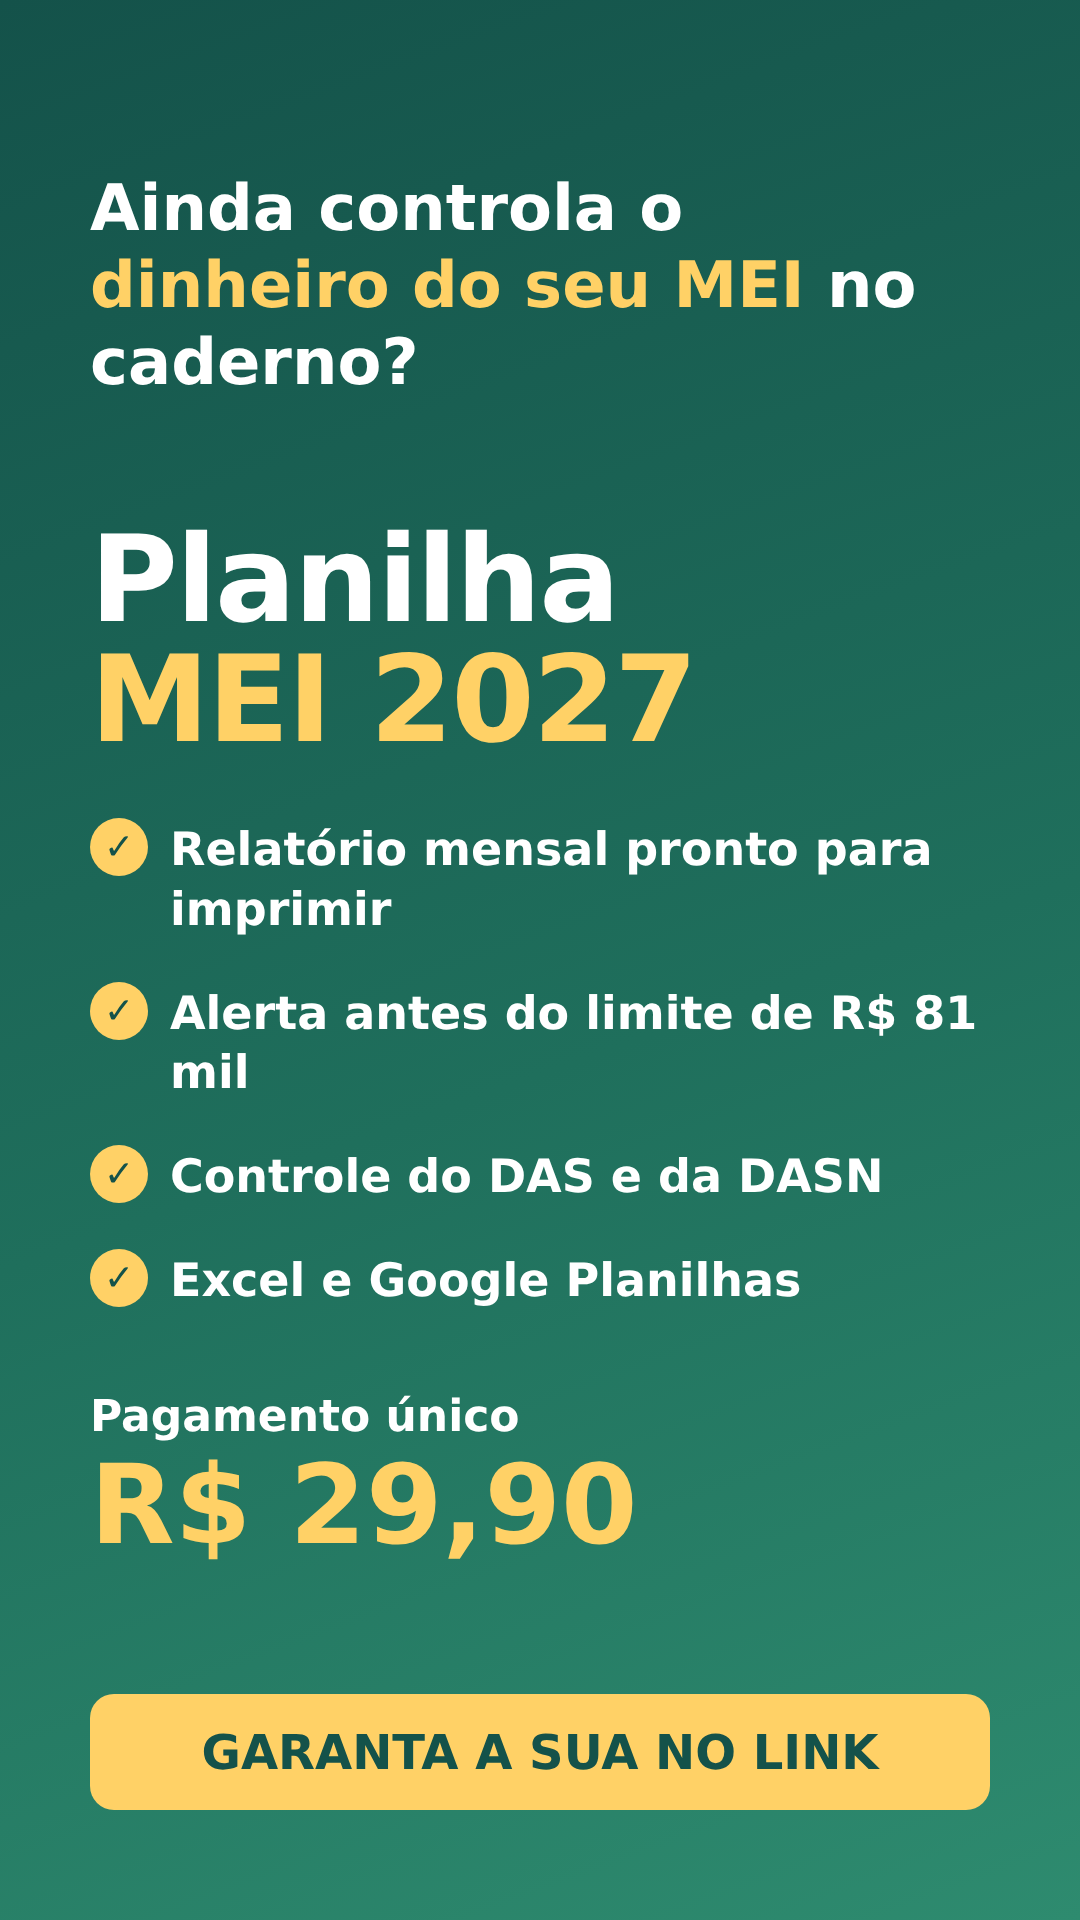
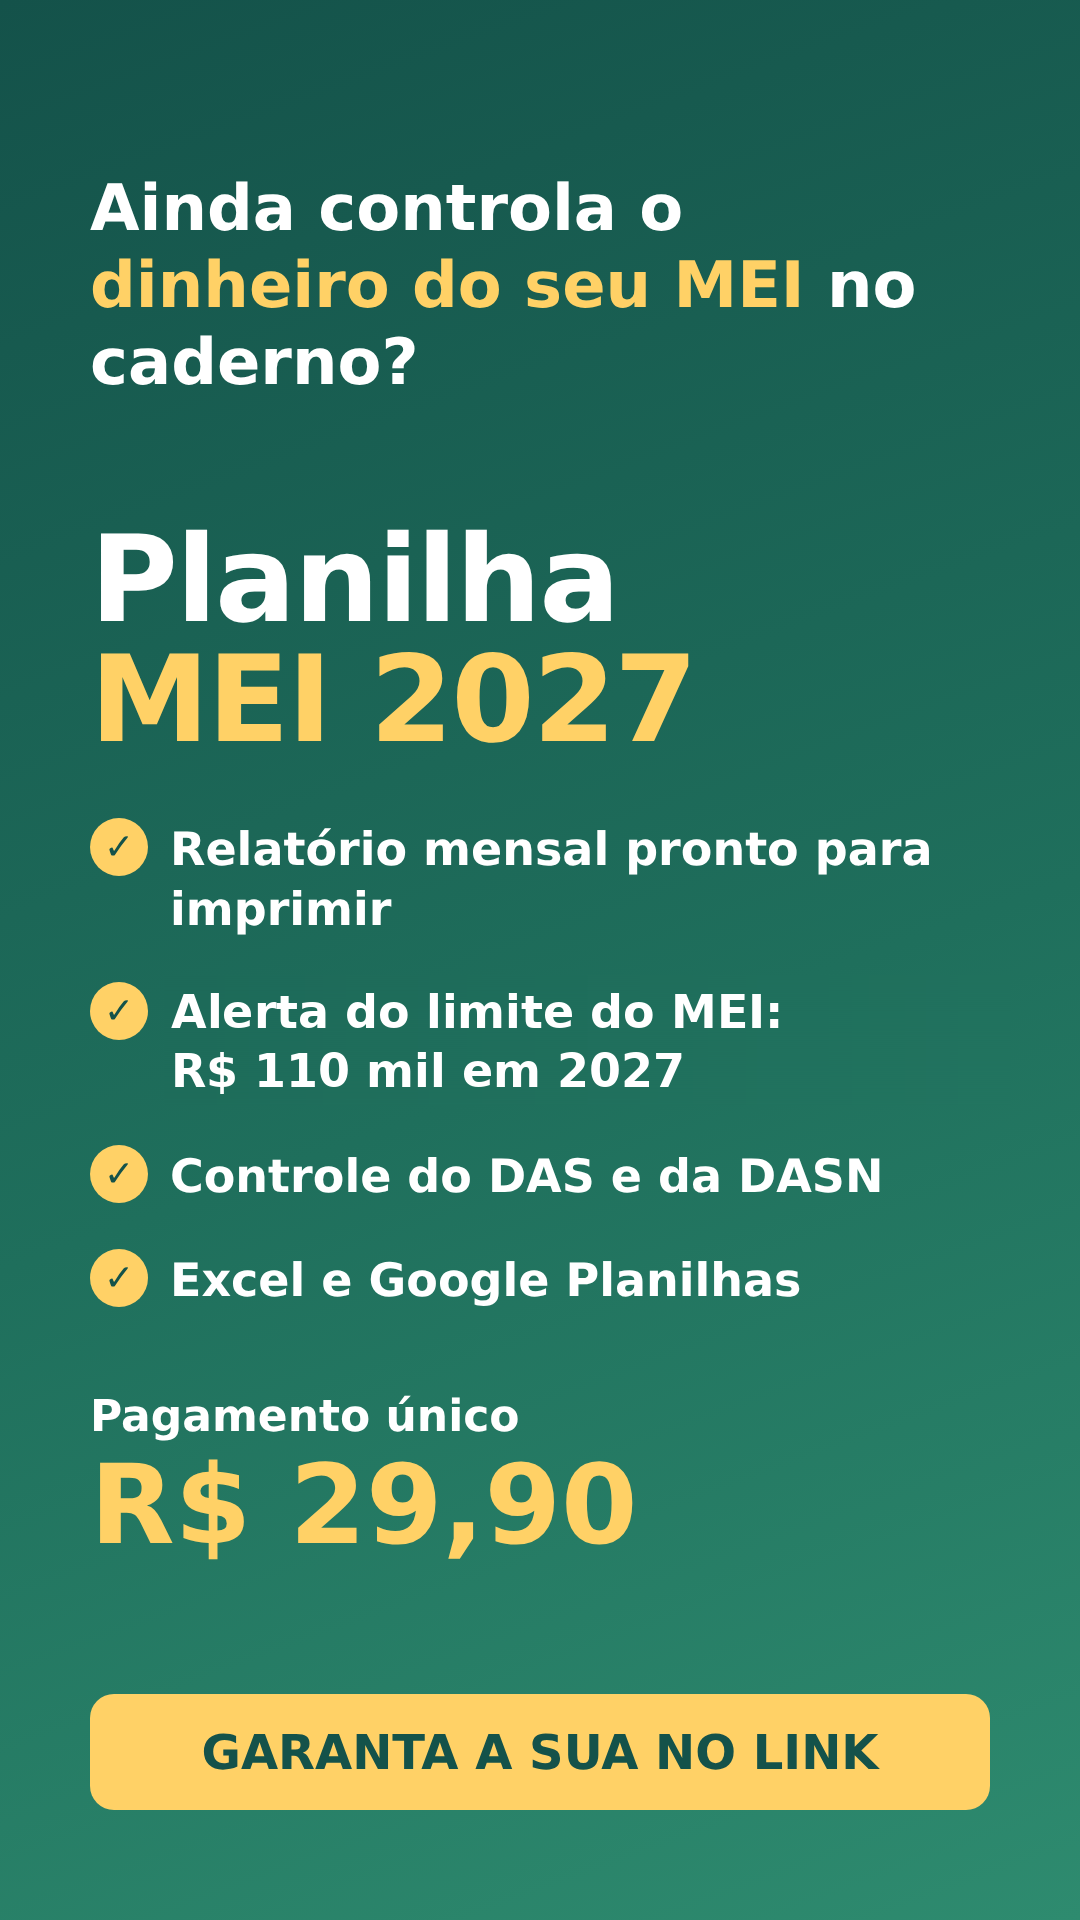
Atualiza kit de afiliados da Planilha MEI para o limite de R$ 110 mil em 2027

Changed region(s): [[0.1528, 0.5, 0.825, 0.5625], [0.8556, 0.5, 0.9167, 0.5312]]

diff --git a/afiliados/index.html b/afiliados/index.html
@@ -10,15 +10,15 @@ img{max-width:100%;border-radius:10px;border:1px solid #e5e7eb}.imgs{display:fle
 <div class="imgs"><a href="capa_planilha_mei_2027.png" download><img src="capa_planilha_mei_2027.png" alt="Feed 1080x1080"></a><a href="story_planilha_mei_2027.png" download><img src="story_planilha_mei_2027.png" alt="Story 1080x1920"></a></div>
 <h2>Texto curto (stories, status, X)</h2>
 <pre>MEI, chega de controlar o dinheiro no caderno 📒
-A Planilha MEI 2027 monta o relatório mensal, avisa antes de você chegar no limite de R$ 81 mil e controla o DAS. Excel e Google Planilhas, pagamento único de R$ 29,90.
+A Planilha MEI 2027 monta o relatório mensal, avisa antes de você chegar no limite do MEI (R$ 110 mil em 2027) e controla o DAS. Excel e Google Planilhas, pagamento único de R$ 29,90.
 👉 [SEU LINK]</pre>
 <h2>Texto médio (post de feed, grupos onde divulgação é permitida)</h2>
 <pre>Você é MEI e sabe quanto já faturou este ano? 🤔
 
-Passar do limite de R$ 81 mil pode virar multa e imposto retroativo. A Planilha MEI 2027 resolve isso de um jeito simples:
+Passar do limite do MEI (R$ 110 mil em 2027) pode virar multa e imposto retroativo. A Planilha MEI 2027 resolve isso de um jeito simples:
 
 ✅ Relatório Mensal de Receitas Brutas pronto para imprimir
-✅ Alerta automático de limite
+✅ Alerta automático do limite, já com os valores novos (R$ 110 mil em 2027)
 ✅ Controle do DAS e vencimentos
 ✅ Valores da declaração anual (DASN) calculados
 ✅ Lucro e margem do mês com gráfico
@@ -28,7 +28,7 @@ Pagamento único de R$ 29,90 e garantia de 7 dias.
 👉 [SEU LINK]</pre>
 <h2>Roteiro de vídeo curto (Reels/TikTok/Shorts, 20–30 s)</h2>
 <pre>1. (Gancho) "Se você é MEI, você sabe quanto ainda pode faturar este ano?"
-2. (Problema) "Se passar do limite de 81 mil, a conta vem com multa."
+2. (Problema) "Em 2027 o limite sobe pra 110 mil, mas se passar, a conta vem com multa."
 3. (Solução, mostrando a planilha na tela) "Eu uso essa planilha: lanço as vendas e ela mostra quanto falta pro limite, monta o relatório mensal e lembra do DAS."
 4. (CTA) "Custa menos de 30 reais, link aqui."</pre>
 <h2>Regras de divulgação</h2>
